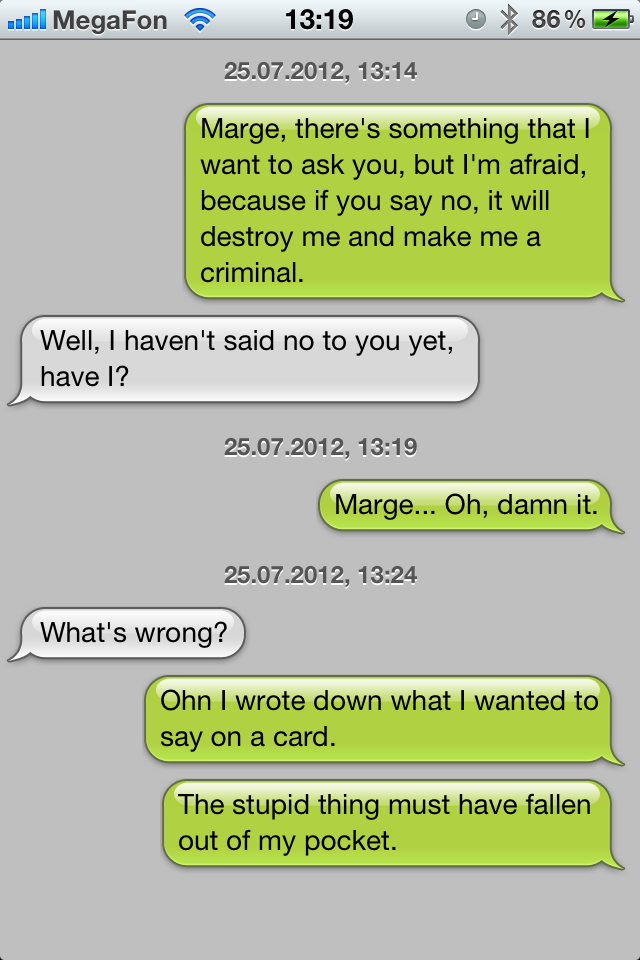
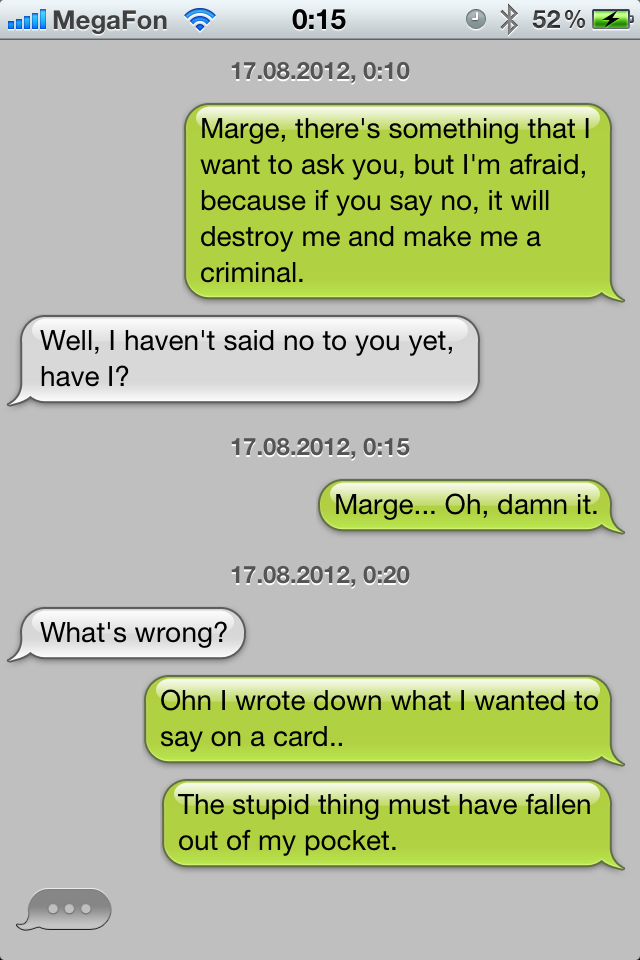
Typing bubble info, planned features, acknowledgements

diff --git a/index.html b/index.html
@@ -63,11 +63,16 @@
 <li>Message date (<code>NSDate *date</code>)</li>
 </ul><p>It's good idea to use <code>+ (id)dataWithText:(NSString *)text andDate:(NSDate *)date andType:(NSBubbleType)type</code> to create bubble data.</p>
 
-<h2>Messages grouping</h2>
+<h2>Features</h2>
+
+<h3>Messages grouping</h3>
 
 <p>The messages received within specified time interval will be grouped into one chat conversation. Each chat conversation is prerendered with date label. You can change this time interval by setting <code>NSTimeInterval snapInterval</code> property  of <code>UIBubbleTableView</code></p>
 
-<h2>Other colors for bubbles</h2>
+<h3>Now typing bubble</h3>
+    <p>You can set the "now typing" bubble (small gray bubble with 3 dots inside) with <code>NSBubbleTypingType typingBubble</code> property. It can be displayed like you are typing (<code>NSBubbleTypingTypeMe</code>), or somebody's typing (<code>NSBubbleTypingTypeMe</code>). Or you can hide it with <code>NSBubbleTypingTypeNone</code>. Table data reload is now required for the bubble to show or to hide.</p>
+    
+<h3>Other colors for bubbles</h3>
 
 <p>You are welcome to create bubbles of any color you want. To archive this open the PSD files downloaded with the project in <code>psd</code> folder (you'll need Adobe Photoshop), in the Shape layer change the Gradient overlay effect the way you want and save the file in PNG in the <code>images</code> folder.</p>
 <!--
@@ -78,9 +83,25 @@
 </ul>
 --> 
 
-<h2>Feedback</h2>
+<h2>Planned features</h2>
+<ul>
+    <li>User avatars</li>
+    <li>URL, phone number recognition</li>
+    <li>Custom header for the table so that developer can add own buttons, labels, etc.</li>
+    <li>Auto scroll (?)</li>
+</ul>
+    
+<h2>Feedback and Acknowledgement</h2>
 
-<p>More features are coming soon. You are always welcome to ask questions, leave comments and report bugs with <a href="https://github.com/AlexBarinov/UIBubbleTableView/issues">https://github.com/AlexBarinov/UIBubbleTableView/issues</a></p>
+<p>More features are coming soon. You are always welcome to ask questions, leave comments and report bugs with <a href="https://github.com/AlexBarinov/UIBubbleTableView/issues">https://github.com/AlexBarinov/UIBubbleTableView/issues</a> or contact me directly at <a href="mailto:github@alex.barinov.name">github@alex.barinov.name</a></p>
+    
+<p>Special thanks to:</p>
+
+<ul>
+    <li>Anna Komleva &ndash; for drawing UI</li>
+    <li>Scott Gruby &ndash; for fixes in memory management</li>
+</ul>
+    
         </section>
 
         <footer>
